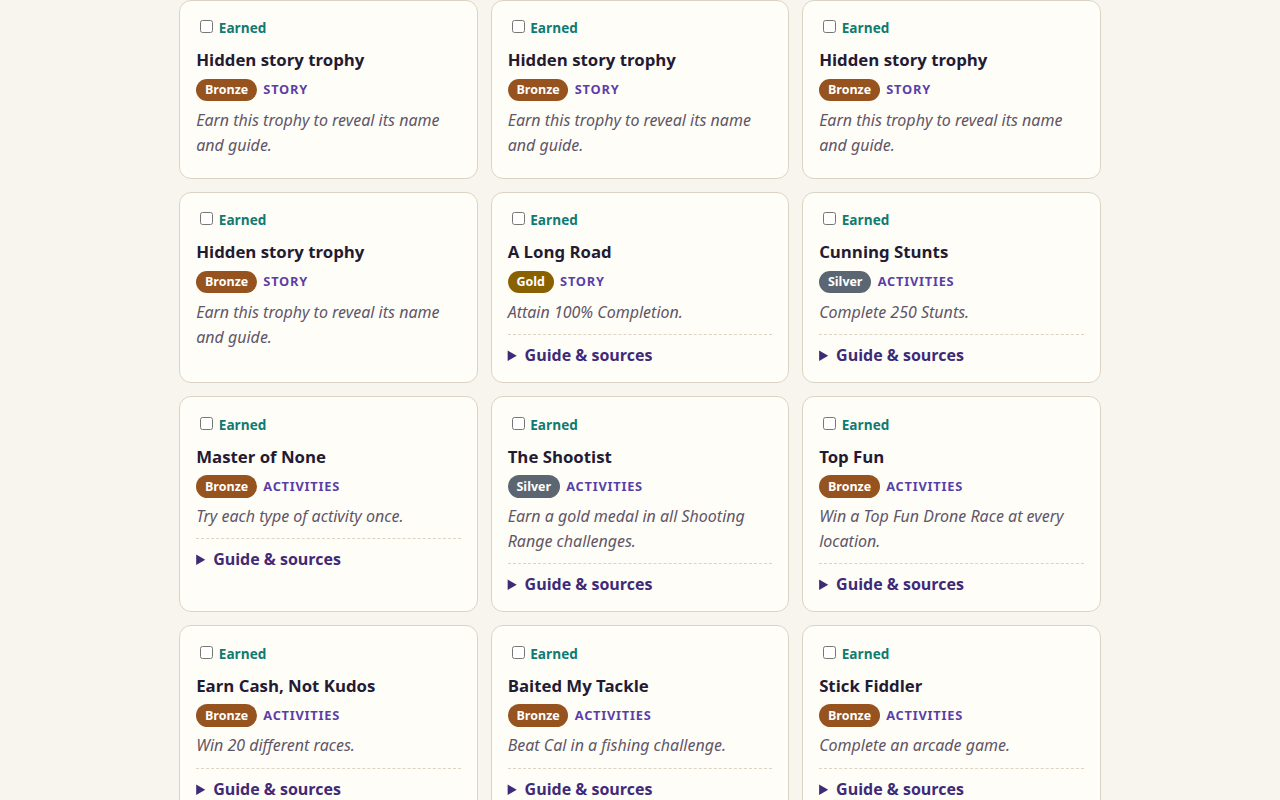
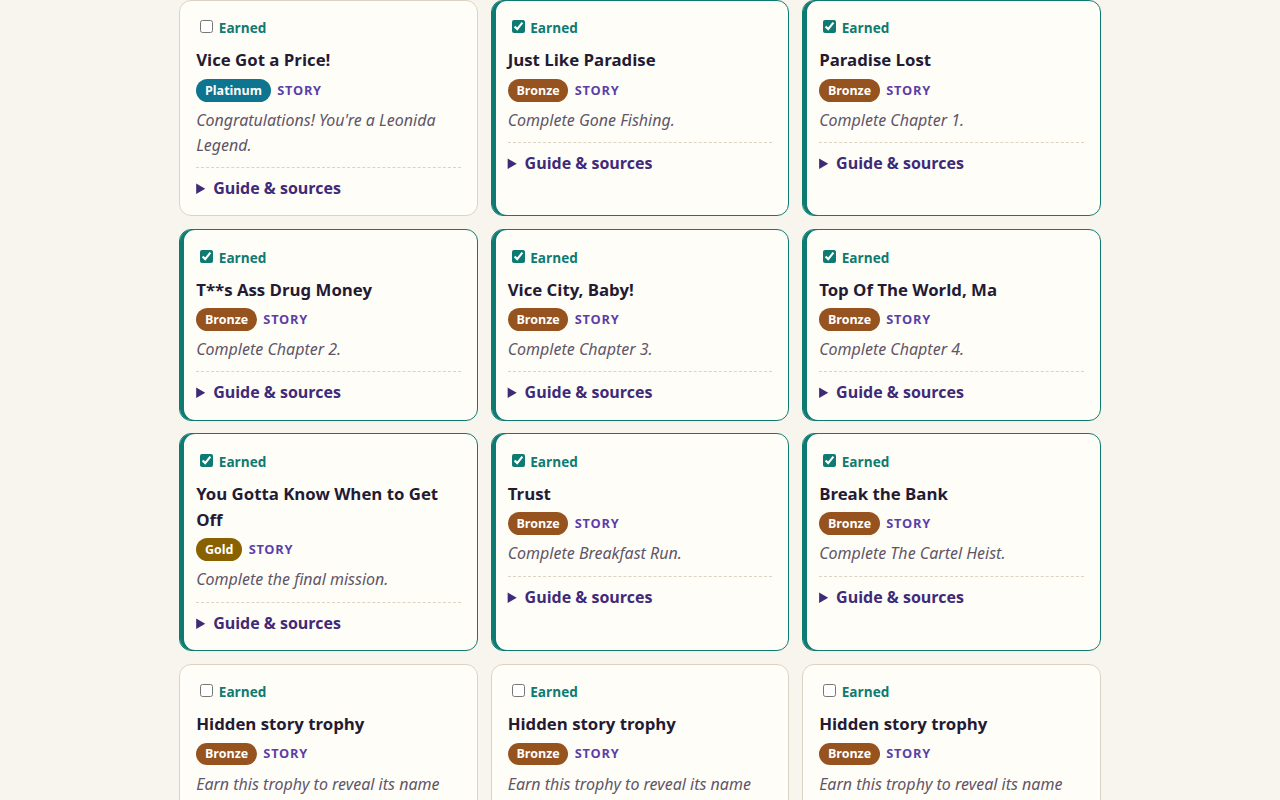
GTA VI trophy guide & tracker: rebuild in post-open session (retry 2)

Changed region(s): [[0.125, 0.0, 0.8438, 1.0]]

diff --git a/app/index.html b/app/index.html
@@ -11,7 +11,7 @@
 <header class="masthead">
   <p class="eyebrow">Grand Theft Auto VI · PlayStation 5 · 55 trophies</p>
   <h1>GTA VI Trophy Guide &amp; Tracker</h1>
-  <p class="lede">Every official trophy, its guide in our own words with its sources beside it, a roadmap to the Platinum, and a checklist that remembers your progress. Works offline — this page loads nothing from the network.</p>
+  <p class="lede">Every official trophy with its guide in our own words and its sources beside it, a roadmap to the Platinum, and a checklist that remembers your progress. Works offline — this page loads nothing from the network.</p>
 </header>
 
 <main>
